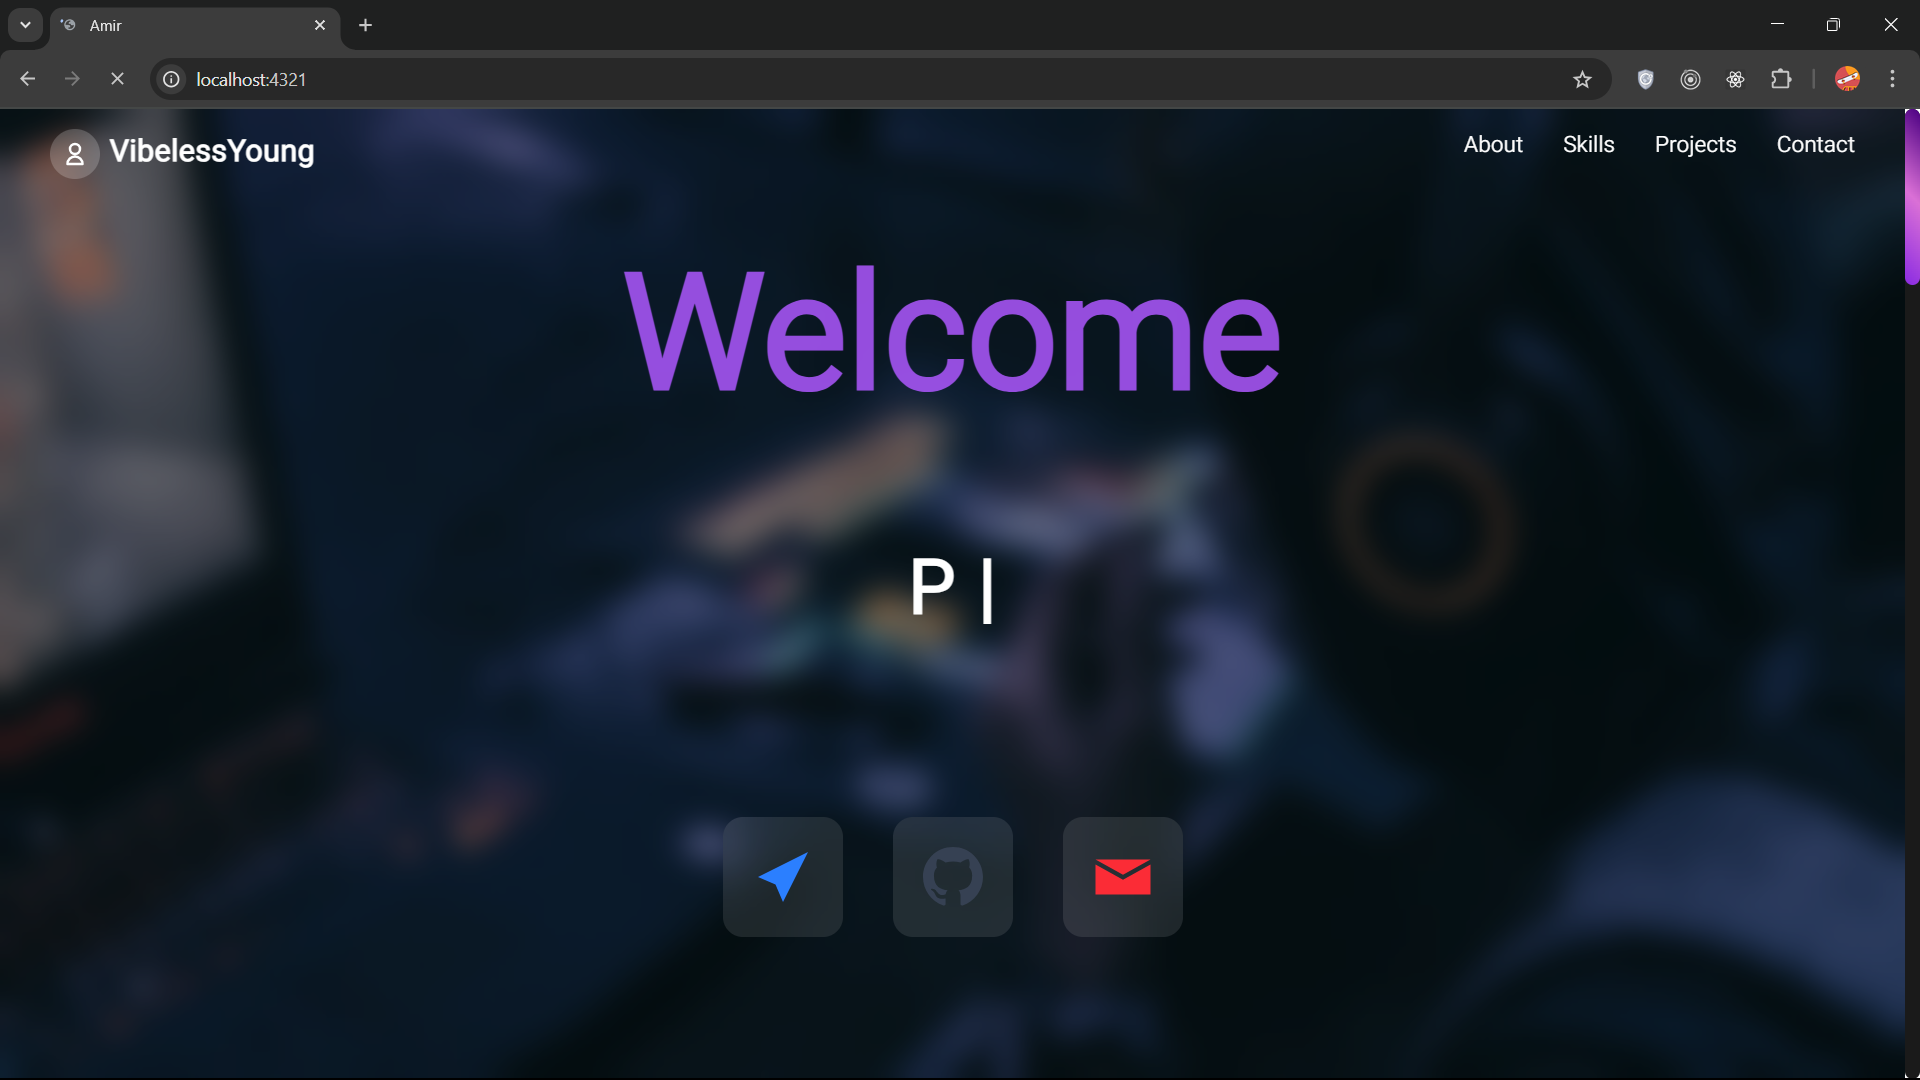
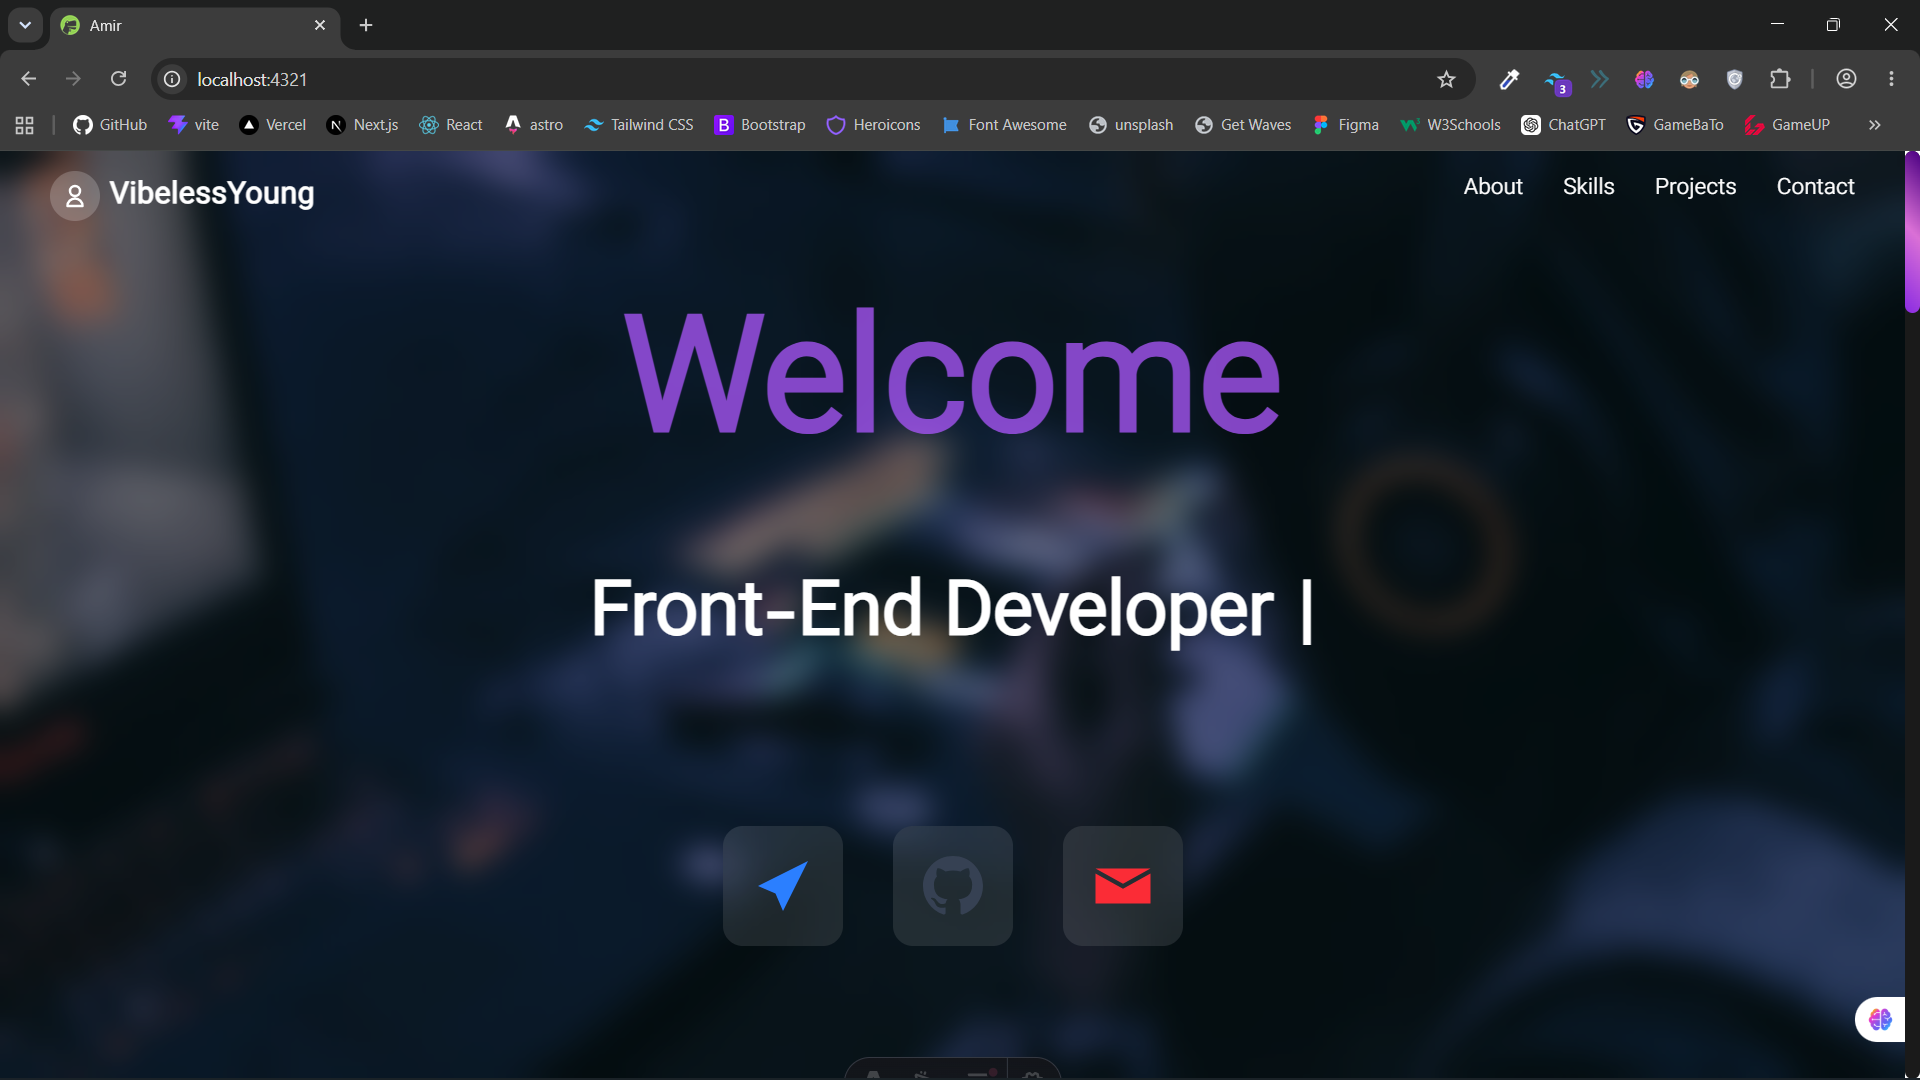
add new images for resume-ui

diff --git a/src/data/projects.ts b/src/data/projects.ts
@@ -22,6 +22,10 @@ import socialx4 from "@/assets/images/social-4.png";
 import resbanner from "@/assets/images/res-banner.jpg";
 import res1 from "@/assets/images/res1.png";
 import res2 from "@/assets/images/res2.png";
+import res3 from "@/assets/images/res3.png";
+import res4 from "@/assets/images/res4.png";
+import res5 from "@/assets/images/res5.png";
+import res6 from "@/assets/images/res6.png";
 import music from "@/assets/images/music.jpg";
 import maxilla1 from "@/assets/images/Maxilla-1.png";
 import maxilla2 from "@/assets/images/Maxilla-2.png";
@@ -210,6 +214,10 @@ export const projects: Project[] = [
     gallery: [
       { url: res1, alt: "website interface" },
       { url: res2, alt: "website interface" },
+      { url: res3, alt: "website interface" },
+      { url: res4, alt: "website interface" },
+      { url: res5, alt: "website interface" },
+      { url: res6, alt: "website interface" },
     ],
     results:
       "have a scroll-animations and responsive elements and modern view and you can add your projects , your info and more...",